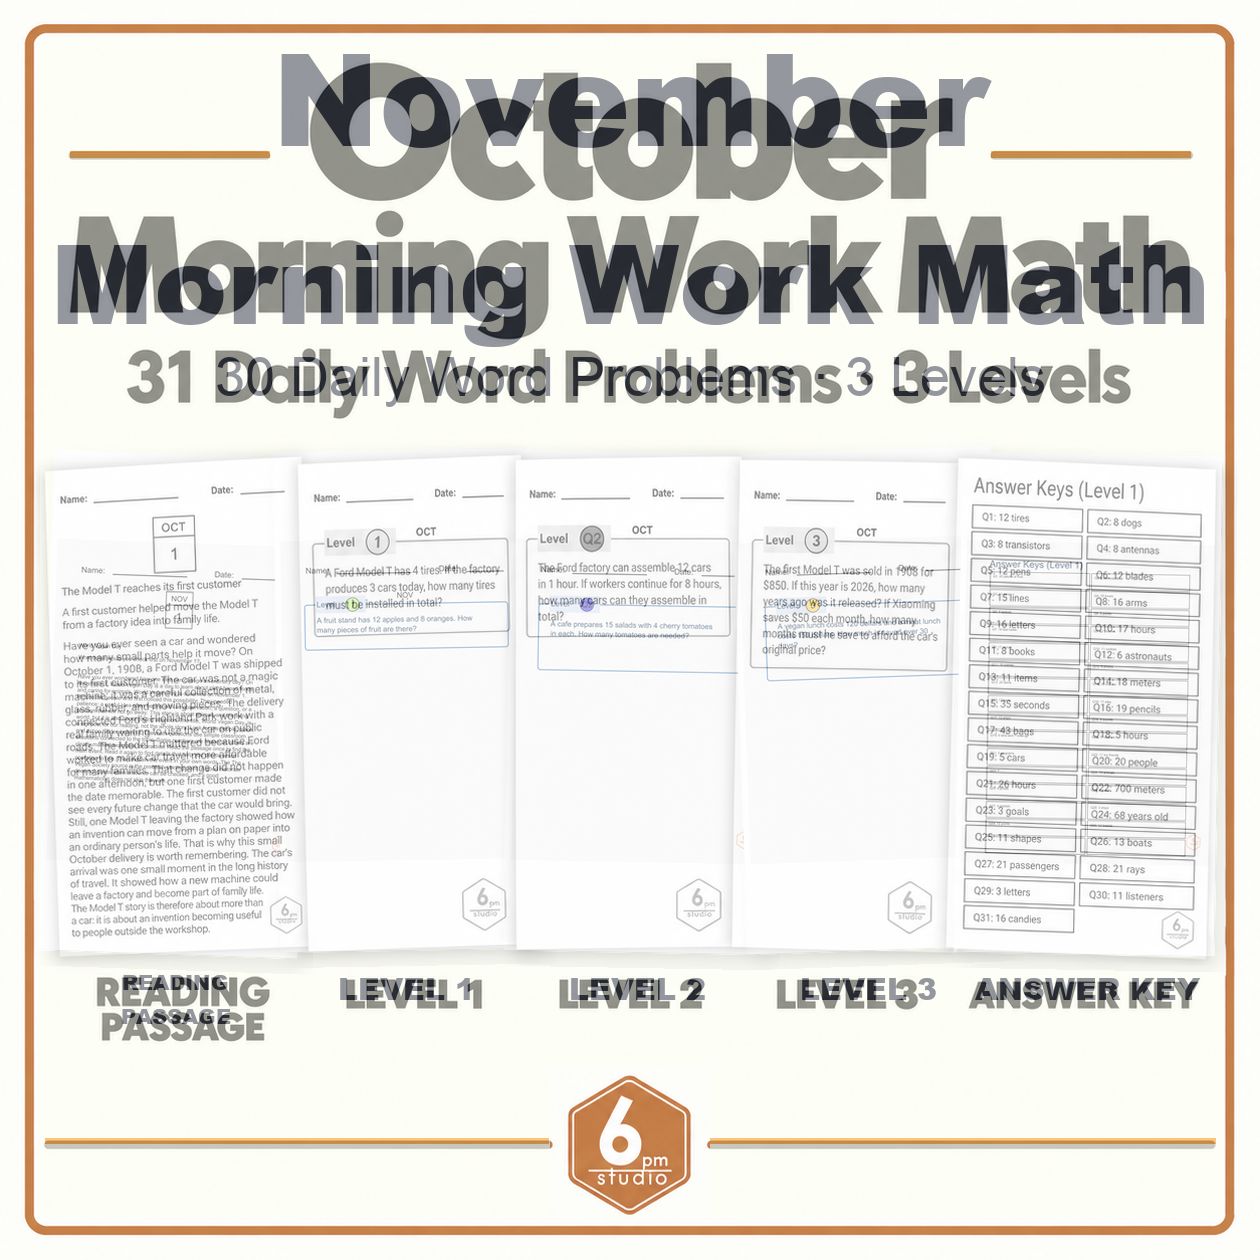
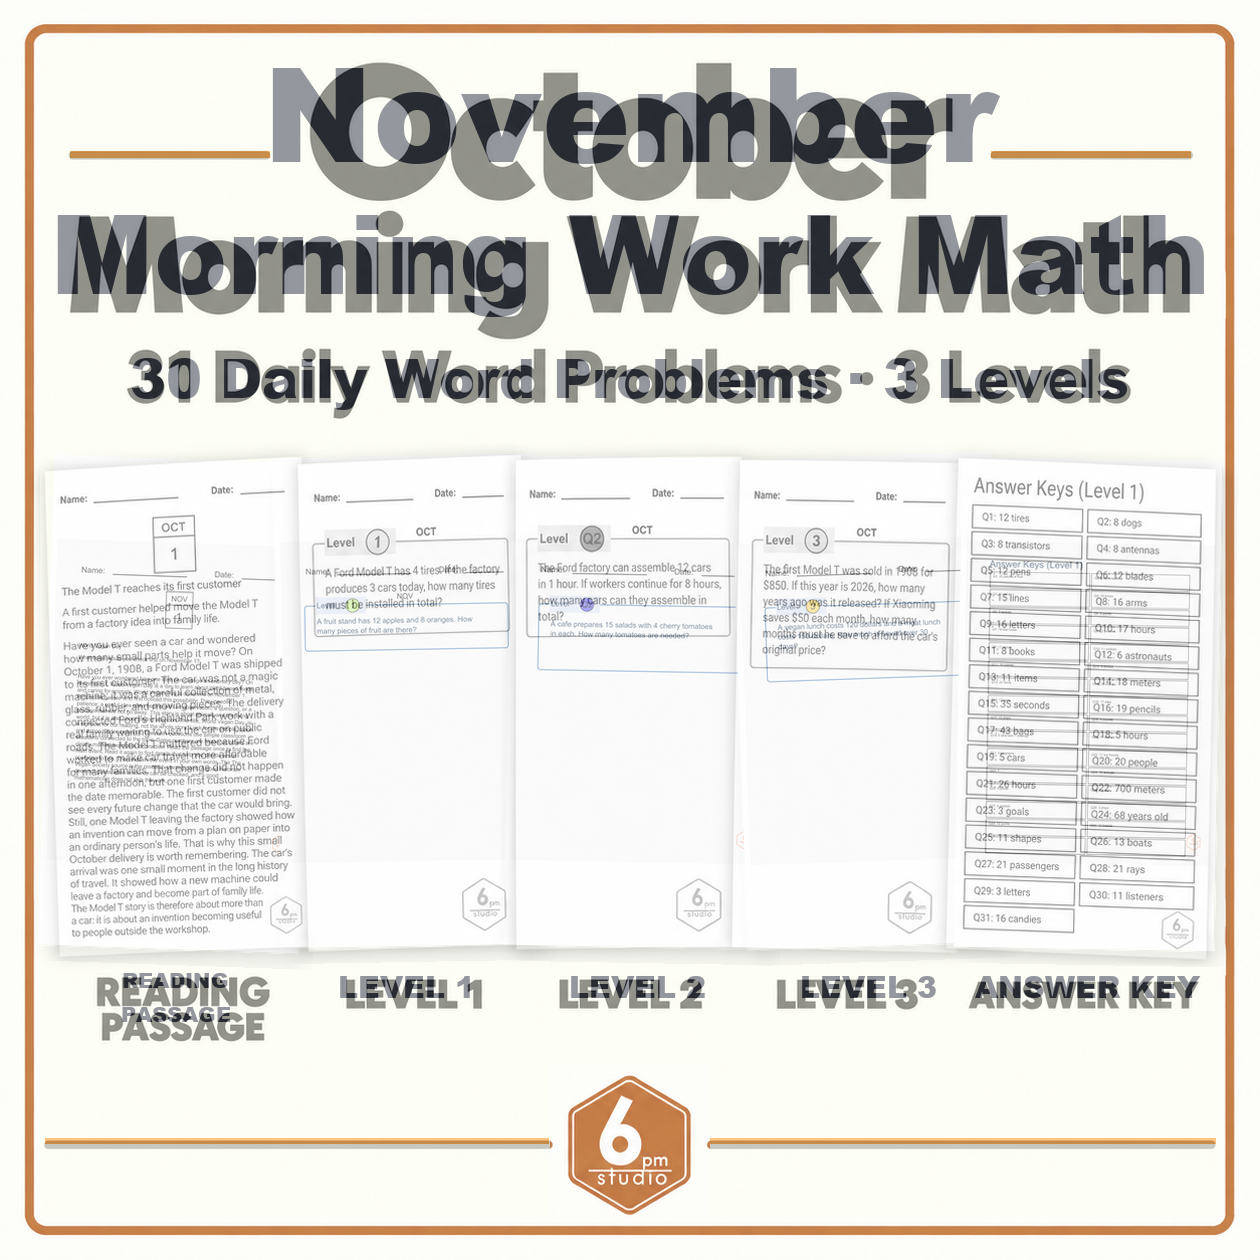
Align landing thumbnail geometry with reference

diff --git a/scripts/generate_monthly_thumbnails.py b/scripts/generate_monthly_thumbnails.py
@@ -355,21 +355,24 @@ def compose_landing_page(month, day_count, pages, out):
     draw.rectangle((40, 1060, 1220, 1215), fill=BG)
     # Keep the month inside the reference's side-line gap even when a longer
     # month name replaces October.
-    centered(draw, month.title(), 4, 150, 720)
+    # The reference month sits in the upper title band; longer month names
+    # are fitted without changing that band's vertical center.
+    month_size = 150 if len(month) <= 7 else 132
+    centered(draw, month.title(), 16, month_size, 820)
     draw.line((70, 154, 269, 154), fill=ORANGE, width=7)
     draw.line((991, 154, 1190, 154), fill=ORANGE, width=7)
-    centered(draw, "Morning Work Math", 202, 112, 1160)
-    centered(draw, f"{day_count} Daily Word Problems · 3 Levels", 347, 54, 1100, bold=False)
+    centered(draw, "Morning Work Math", 172, 112, 1160)
+    centered(draw, f"{day_count} Daily Word Problems · 3 Levels", 338, 54, 1100, bold=True)
 
     # Keep the complete header unobstructed: the canonical reference reserves
     # the upper third for the month/title/subtitle and starts the five-card
     # strip below it.
     cards = [
-        ("reading_passage", 176, 704, 260, 500, -2.0, "READING\nPASSAGE"),
-        ("level1", 407, 700, 260, 500, 1.0, "LEVEL 1"),
-        ("level2", 638, 702, 260, 500, -1.0, "LEVEL 2"),
-        ("level3", 869, 700, 260, 500, 2.0, "LEVEL 3"),
-        ("answer_key", 1088, 704, 260, 500, -1.0, "ANSWER KEY"),
+        ("reading_passage", 176, 704, 260, 490, -2.0, "READING\nPASSAGE"),
+        ("level1", 407, 701, 260, 490, 1.0, "LEVEL 1"),
+        ("level2", 638, 702, 260, 490, -1.0, "LEVEL 2"),
+        ("level3", 869, 701, 260, 490, 2.0, "LEVEL 3"),
+        ("answer_key", 1088, 704, 260, 490, -1.0, "ANSWER KEY"),
     ]
     for key, cx, cy, width, height, angle, label in cards:
         worksheet = Image.new("RGBA", (width + 32, height + 32), (0, 0, 0, 0))
@@ -379,7 +382,7 @@ def compose_landing_page(month, day_count, pages, out):
         label_lines = label.split("\n")
         label_font = fitted(label.replace("\n", " "), 232, 30)
         for index, line in enumerate(label_lines):
-            draw.text((cx, 966 + index * 34), line, anchor="ma", fill=NAVY, font=label_font)
+            draw.text((cx, 964 + index * 34), line, anchor="ma", fill=NAVY, font=label_font)
     draw = ImageDraw.Draw(canvas)
     draw.line((45, 1140, 548, 1140), fill=ORANGE, width=6)
     draw.line((708, 1140, 1215, 1140), fill=ORANGE, width=6)

diff --git a/docs/monthly-thumbnail-prompts.md b/docs/monthly-thumbnail-prompts.md
@@ -226,6 +226,13 @@ Preserve the fixed reference geometry exactly:
 - label positions, card proportions, overlap order, footer spacing, and the
   outlined 6 pm studio logo.
 
+For the compositor, preserve the reference's fixed bands: the month/title
+header occupies the upper 430 px, the card strip begins at approximately y=455
+and uses five 260×490 px cards with the reference centers and rotations, the
+uppercase labels sit immediately below the cards, and the footer rules remain
+at y=1140 with the centered logo between them. The day-count line uses the
+same bold hierarchy as the reference; only its month-specific number changes.
+
 Replace only month-specific content:
 - month name;
 - day count in the subtitle;
